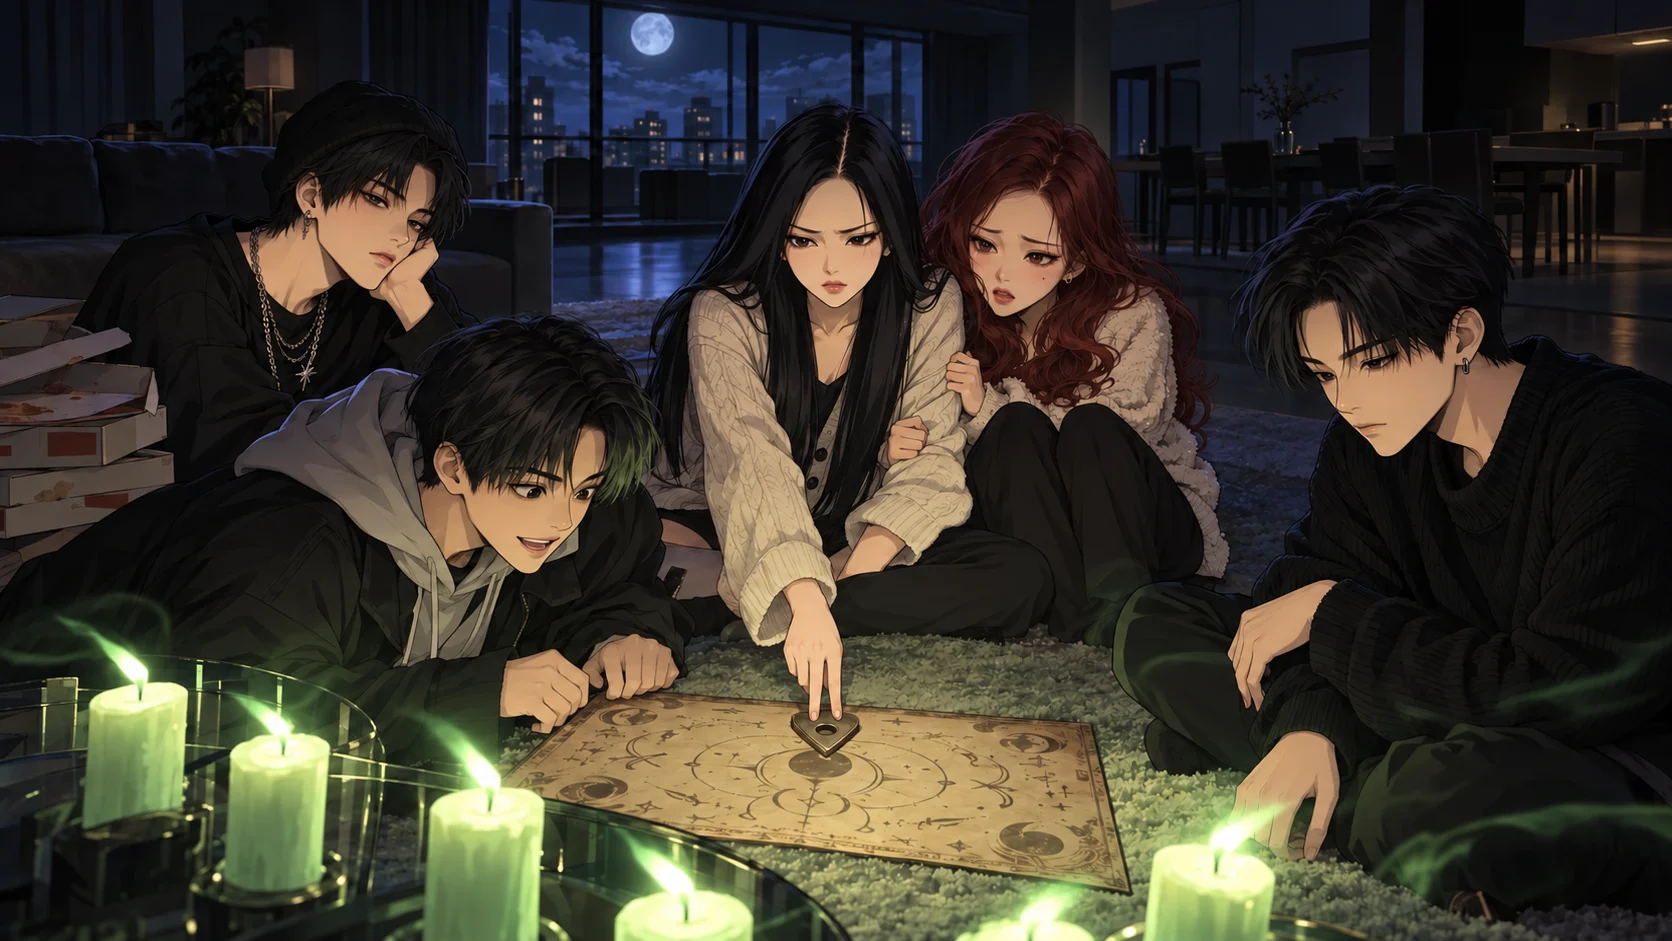
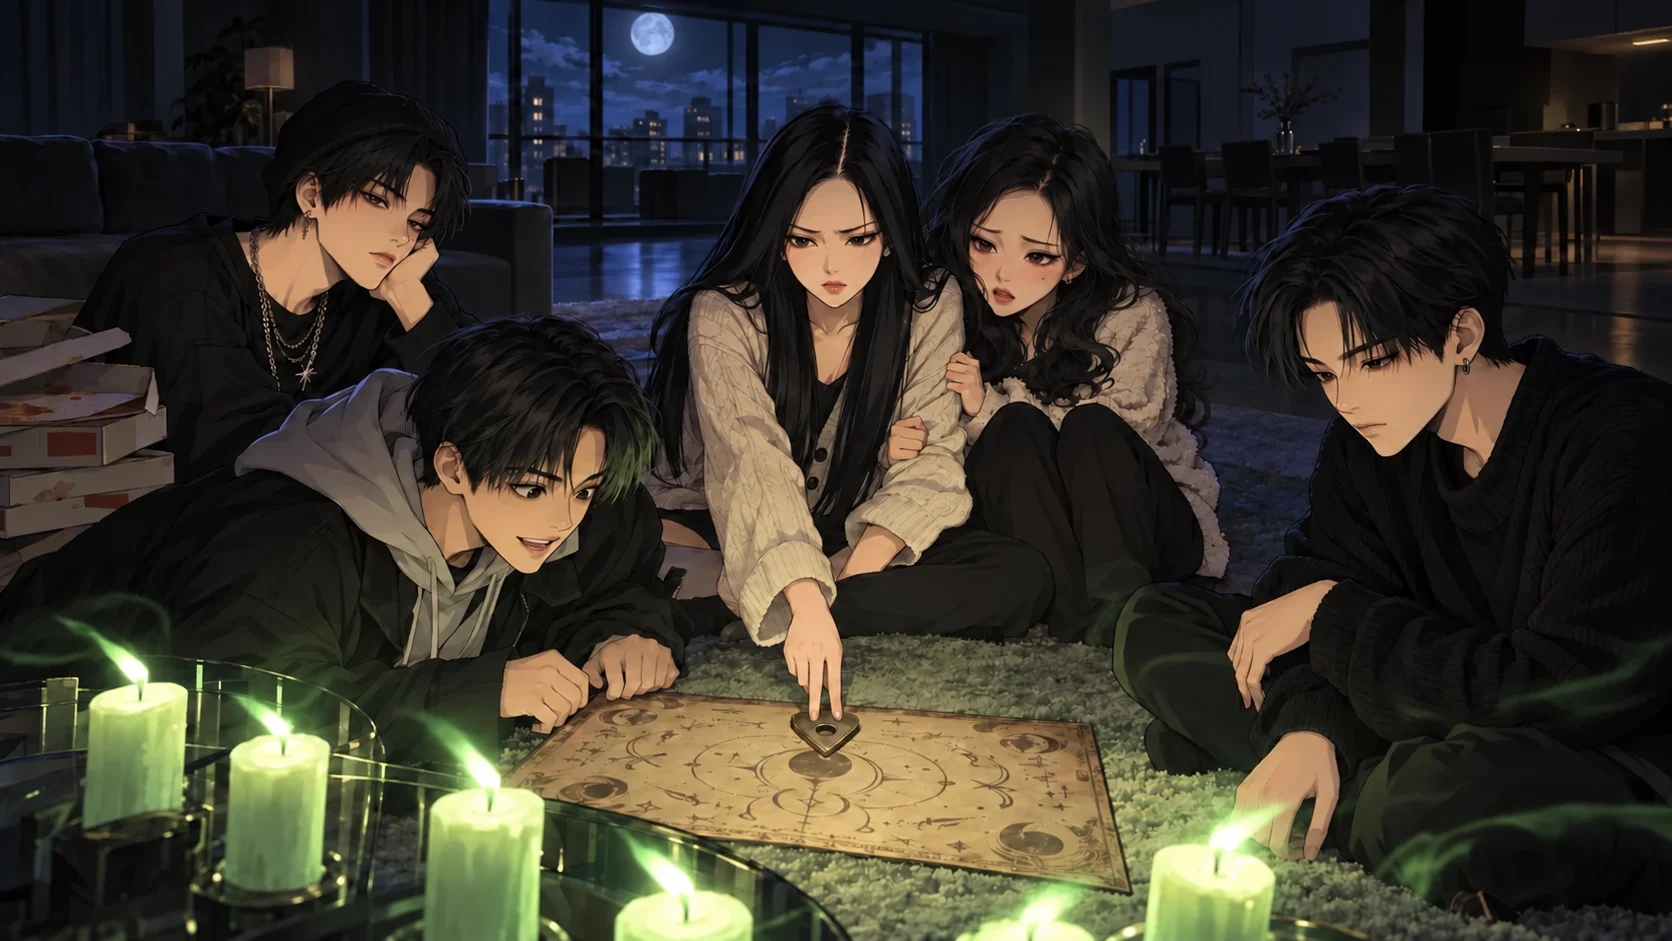
HOAX séance: Cherry's black hair back (4D)

Changed region(s): [[0.5598, 0.1233, 0.7153, 0.4315]]

diff --git a/FEMC-ART-TODO.md b/FEMC-ART-TODO.md
@@ -2,7 +2,7 @@
 
 Cleaned Oct 31 2026: only what's still to make. **Every attachment is in `Femc Mode Images/Place Prompt Attachments/`**, named after its item.
 
-**To make:** 1 small HOAX picture fix (4D, the séance) · icons for the late-game skills (section 7) · 5 Social Link full-body sheets (section 8). **Optional:** 2 wardrobe items. **Parked:** `FEMC-ART-BACKBURNER.md`.
+**To make:** icons for the late-game skills (section 7) · 5 Social Link full-body sheets (section 8). **Optional:** 2 wardrobe items. **Parked:** `FEMC-ART-BACKBURNER.md`.
 
 **How to use this list**
 - Attach the files on each item's **Attach** line, in that order, then paste the prompt.
@@ -36,13 +36,7 @@ Three HOAX pictures still show the old looks (Jihoon blond, Cherry with black ha
 
 **[x] 4C. The HOAX ending (the gym)** *(in the game Oct 31)*
 
-**[ ] 4D. The séance: Cherry's hair back to black**
-Claude's mistake: the 4B prompt asked for auburn hair, but Cherry's hair is black. One small edit of the séance picture now in the game.
-Attach: `Fix 4E - picture to edit (seance).png`
-Save as: `epi-h-seance.png`
-```
-Edit this image. Keep absolutely everything the same, including every face, pose, outfit, the green candles, the lighting and the art style. Change only one thing: the girl with long wavy auburn-red hair (sitting on the right of the two girls) gets long, wavy, jet-black hair instead. Her face, sweater and pose stay exactly as they are.
-```
+**[x] 4D. The séance: Cherry's hair back to black** *(in the game Oct 31)*
 
 ---
 
